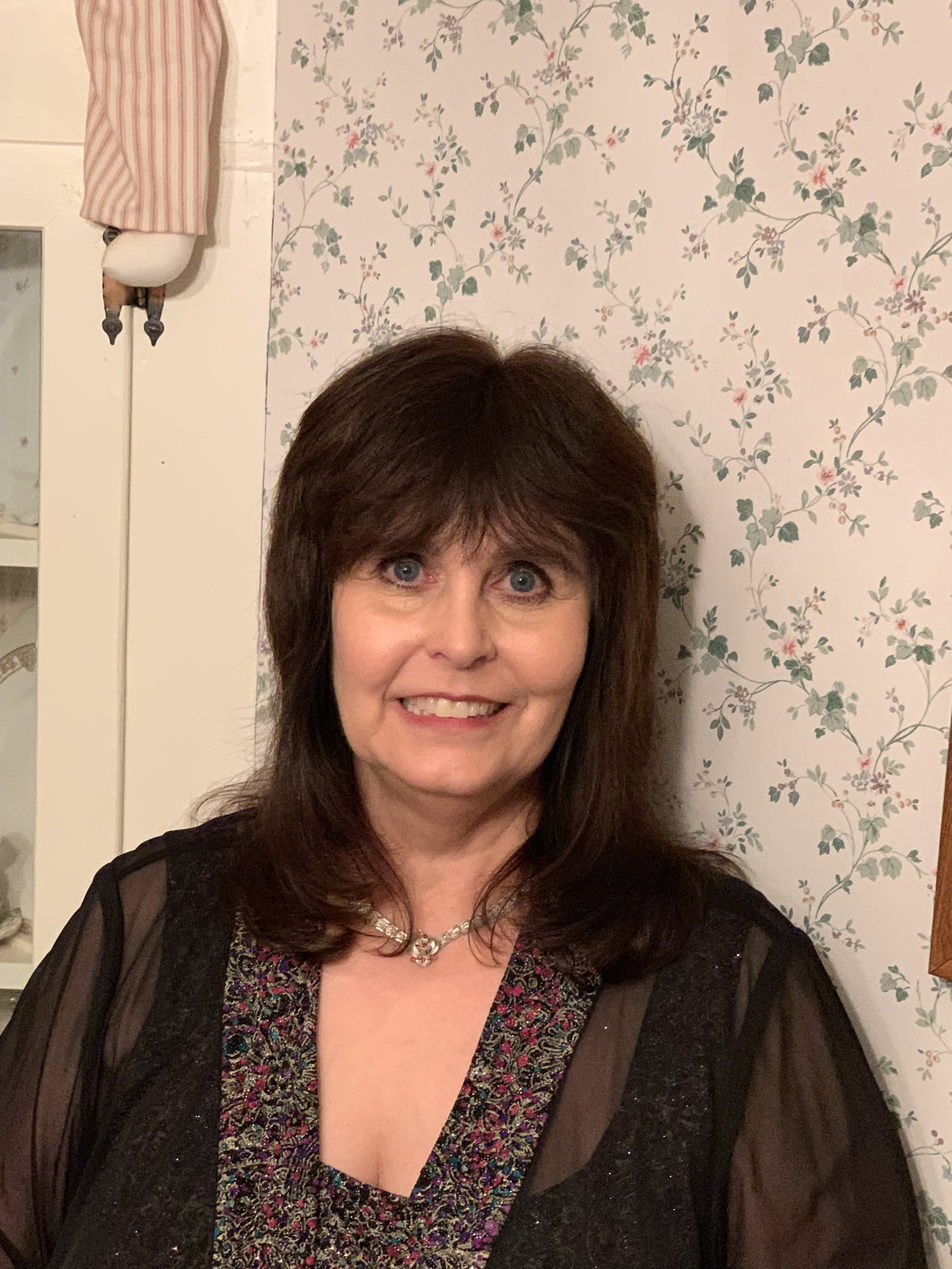
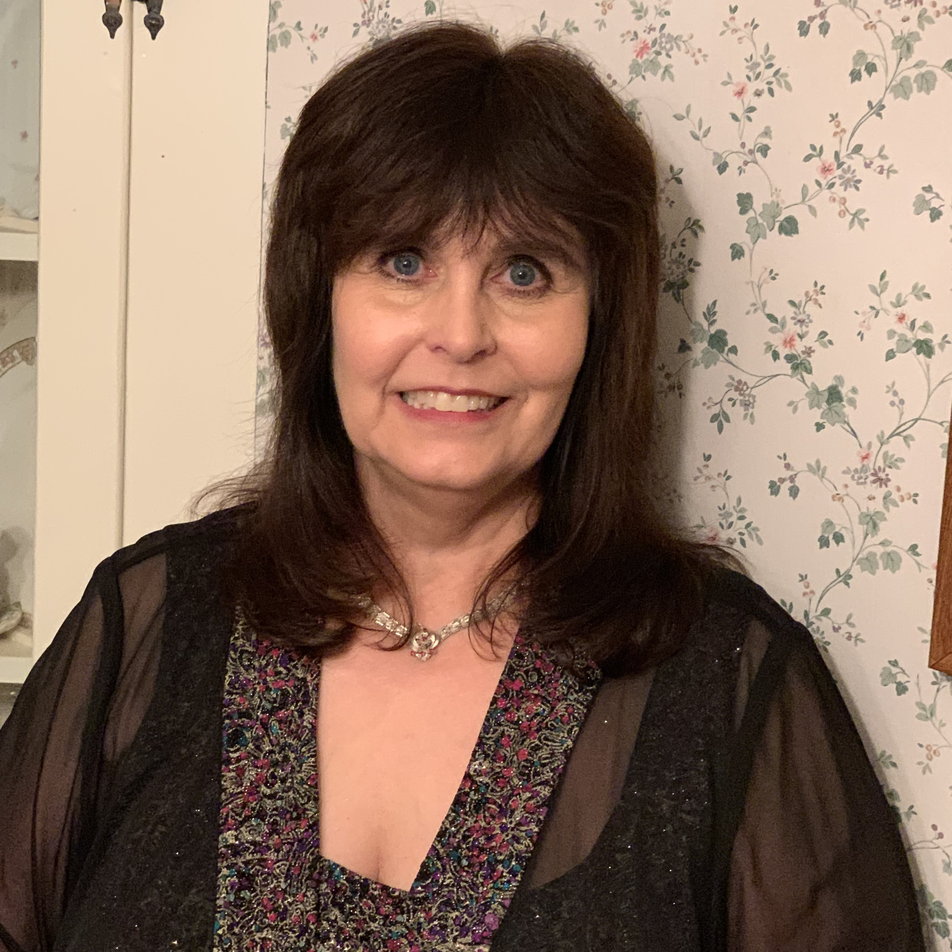
commit

diff --git a/src/components/layouts/Navbar.jsx b/src/components/layouts/Navbar.jsx
@@ -1,5 +1,5 @@
 import React, { useEffect, useRef, useState } from "react";
-import { GiHamburgerMenu } from "react-icons/gi";
+import { RxCross2, RxHamburgerMenu } from "react-icons/rx";
 import { Link, useLocation, useNavigate } from "react-router-dom";
 import { logo_l } from "../../assets";
 import { navigation } from "../../constant";
@@ -59,8 +59,8 @@ function Navbar() {
   };
 
   const navClasses = isFixed
-    ? "fixed top-0 left-0 w-full bg-white border-b border-neutral-300 z-50"
-    : "absolute top-0 left-0 w-full bg-white z-50";
+    ? "fixed top-0 left-0 w-full bg-primary-50 border-b border-neutral-400 z-50"
+    : "absolute top-0 left-0 w-full bg-primary-50 z-50";
 
   const linkBase =
     "text-15p px-[15px] py-2 transition-all duration-300 ease-in-out underline underline-offset-2";
@@ -71,19 +71,19 @@ function Navbar() {
     <header>
       <nav
         ref={navRef}
-        className={`${navClasses} flex flex-col lg:flex-row items-center lg:justify-between transition-all duration-300 ease-in-out`}
+        className={`${navClasses} p-1 flex flex-col lg:flex-row items-center lg:justify-between transition-all duration-300 ease-in-out`}
       >
         <div className="w-full flex items-center justify-between px-3 py-2 lg:py-0">
           <Link to="/">
-            <img src={logo_l} className="max-w-[150px]" alt="Logo" />
+            <img src={logo_l} className="max-w-[200px] -mb-3.5" alt="Logo" />
           </Link>
 
           {/* Hamburger button */}
           <button
             onClick={() => setMenuOpen((o) => !o)}
-            className="block lg:hidden text-3xl border border-neutral-300 p-1 rounded-md"
+            className="block lg:hidden text-3xl p-1 rounded-md text-primary-600 hover:text-primary-900 transition-all duration-200 ease-in-out"
           >
-            <GiHamburgerMenu />
+            {menuOpen ? <RxCross2 /> : <RxHamburgerMenu />}
           </button>
 
           {/* Desktop menu */}

diff --git a/src/components/layouts/Footer.jsx b/src/components/layouts/Footer.jsx
@@ -13,12 +13,12 @@ const Footer = () => {
         <div className="pt-10 px-5 pb-[30px] border-b border-white">
           <div className="w-full px-3 mx-auto">
             <div className="row justify-between items-center gap-12 sm:gap-0">
-              <div className="md:w-4/12 max-md:text-center">
+              <div className="md:w-4/12 lg:w-3/12 max-md:text-center">
                 <Link to="/" className="max-md:inline-block">
                   <img src={logo_l_w} className="max-w-[280px]" alt="" />
                 </Link>
               </div>
-              <div className="sm:w-6/12 md:w-4/12 lg:w-5/12">
+              <div className="sm:w-6/12 md:w-4/12 lg:w-7/12">
                 <ul className="flex justify-center max-md:flex-wrap items-center gap-3.5">
                   {navigation.map((nav, idx) => (
                     <li key={idx}>
@@ -27,7 +27,7 @@ const Footer = () => {
                         className={
                           location.pathname === nav.url
                             ? "text-secondary"
-                            : "text-secondary-100"
+                            : "text-secondary-100 hover:text-secondary-300"
                         }
                       >
                         {nav.title}
@@ -36,7 +36,7 @@ const Footer = () => {
                   ))}
                 </ul>
               </div>
-              <div className="sm:w-6/12 md:w-3/12">
+              <div className="sm:w-6/12 md:w-3/12 lg:w-2/12">
                 <ul className="flex items-center justify-center gap-7">
                   {socialLinks.map((link, idx) => {
                     const Icon = link.icon;

diff --git a/src/components/layouts/HowToBeSaved.jsx b/src/components/layouts/HowToBeSaved.jsx
@@ -30,18 +30,20 @@ const HowToBeSaved = () => {
           <div className="lg:w-7/12">
             <div className="w-full bg-primary-50/30 p-4 rounded-[10px] border border-secondary-300 max-md:text-center">
               <h2 className="title max-md:mb-4">Christian Resources</h2>
-              <p>Check out our recommended Christian books and resources:</p>
+              <p>Check out my recommended Christian product:</p>
             </div>
           </div>
-          <div className="lg:w-5/12">
-            <div className="row gap-y-2">
+          <div className="lg:w-5/12 self-stretch">
+            <div className="row gap-y-2 h-full">
               {crisResources.map((resource, idx) => (
                 <div key={idx} className="w-full max-md:text-center">
                   <a
                     href={resource.url}
-                    className="block w-full bg-primary-50/30 border border-secondary-300 p-5 rounded-[10px]"
+                    className="flex items-center w-full h-full bg-primary-50/30 border border-secondary-300 hover:bg-secondary group p-5 rounded-[10px]"
                   >
-                    <h4 className="text-xl leading-[0]">{resource.title}</h4>
+                    <h4 className="text-3xl group-hover:text-white">
+                      {resource.title}
+                    </h4>
                   </a>
                 </div>
               ))}

diff --git a/src/pages/ContactPrayers.jsx b/src/pages/ContactPrayers.jsx
@@ -16,10 +16,6 @@ const ContactPrayers = () => {
               <div className="h-full flex flex-col items-center justify-center pb-[100px] max-md:text-center">
                 <span className="subtitle">contact & prayers</span>
                 <h1 className="title mb-4">Contact Me For Prayers</h1>
-                <p>
-                  A guide to unlocking the gifts of the Holy Spirit and living a
-                  life of faith and purpose.
-                </p>
               </div>
             </div>
           </div>

diff --git a/src/components/layouts/Author.jsx b/src/components/layouts/Author.jsx
@@ -1,4 +1,3 @@
-import React from "react";
 import { author } from "../../assets";
 import { socialLinks } from "../../constant";
 
@@ -11,7 +10,7 @@ const Author = () => {
             <div className="relative overflow-hidden max-h-[490px]">
               <img
                 src={author}
-                className="w-full h-full object-cover object-bottom max-h-[500px]"
+                className="w-full h-full object-cover object-top max-h-[400px]"
                 alt=""
               />
             </div>

diff --git a/src/constant/index.js b/src/constant/index.js
@@ -27,7 +27,7 @@ export const navigation = [
     url: "/products",
   },
   {
-    title: "Contact & Prayers",
+    title: "Contact / Prayers & Newsletter",
     url: "/contact-and-prayers",
   },
 ]
@@ -67,17 +67,9 @@ export const verses = [
 
 export const crisResources = [
   {
-    title: "Book 1",
+    title: "The Holy Spirit: God’s Gift for You",
     url: "#"
   },
-  {
-    title: "Book 2",
-    url: "#"
-  },
-  {
-    title: "Book 3",
-    url: "#"
-  }
 ]
 
 export const reviews = [

diff --git a/src/index.css b/src/index.css
@@ -138,6 +138,7 @@
     font-size: 18px;
     line-height: 1;
     display: block;
+    text-transform: capitalize;
   }
 
   h1.title {
